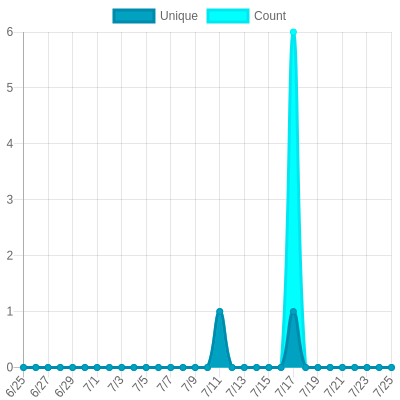
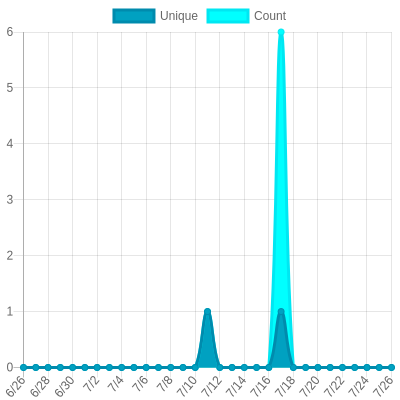
Update views

diff --git a/README.md b/README.md
@@ -26,7 +26,7 @@ The project created and maintained by [gayanvoice](https://github.com/gayanvoice
 			</a>
 		</td>
 		<td>
-			2023/7/23 12:20 AM UTC
+			2023/7/24 12:19 AM UTC
 		</td>
 		<td>
 			36
@@ -35,57 +35,9 @@ The project created and maintained by [gayanvoice](https://github.com/gayanvoice
 			<img alt="Response time graph" src="https://github.com/jimbrig/profile-views/raw/master/graph/285926530/small/week.png" height="20"> 740
 		</td>
 	</tr>
-	<tr>
-		<td>
-			<a href="https://github.com/jimbrig/profile-views/tree/master/readme/235878383/week.md">
-				jimstools
-			</a>
-		</td>
-		<td>
-			2023/7/23 12:21 AM UTC
-		</td>
-		<td>
-			12
-		</td>
-		<td>
-			<img alt="Response time graph" src="https://github.com/jimbrig/profile-views/raw/master/graph/235878383/small/week.png" height="20"> 33
-		</td>
-	</tr>
-	<tr>
-		<td>
-			<a href="https://github.com/jimbrig/profile-views/tree/master/readme/427463930/week.md">
-				KaaS
-			</a>
-		</td>
-		<td>
-			2023/7/23 12:00 AM UTC
-		</td>
-		<td>
-			401
-		</td>
-		<td>
-			<img alt="Response time graph" src="https://github.com/jimbrig/profile-views/raw/master/graph/427463930/small/week.png" height="20"> 1835
-		</td>
-	</tr>
-	<tr>
-		<td>
-			<a href="https://github.com/jimbrig/profile-views/tree/master/readme/331031695/week.md">
-				jimsdots
-			</a>
-		</td>
-		<td>
-			2023/7/23 12:21 AM UTC
-		</td>
-		<td>
-			47
-		</td>
-		<td>
-			<img alt="Response time graph" src="https://github.com/jimbrig/profile-views/raw/master/graph/331031695/small/week.png" height="20"> 355
-		</td>
-	</tr>
 </table>
 
-<small><i>Last updated on 2023/7/25 6:06 PM UTC</i></small>
+<small><i>Last updated on 2023/7/26 12:19 AM UTC</i></small>
 
 ## ✂Copy and 📋 Paste
 ### Total Views Badge

diff --git a/readme/285926530/month.md b/readme/285926530/month.md
@@ -21,6 +21,17 @@
 	</tr>
 	<tr>
 		<td>
+			<code>2023/7/26</code>
+		</td>
+		<td>
+			<code>0</code>
+		</td>
+		<td>
+			<code>0</code>
+		</td>
+	</tr>
+	<tr>
+		<td>
 			<code>2023/7/25</code>
 		</td>
 		<td>
@@ -349,21 +360,10 @@
 			<code>0</code>
 		</td>
 	</tr>
-	<tr>
-		<td>
-			<code>2023/6/25</code>
-		</td>
-		<td>
-			<code>0</code>
-		</td>
-		<td>
-			<code>0</code>
-		</td>
-	</tr>
 </table>
 
 </details>
-<small><i>Last updated on 2023/7/25 6:05 PM UTC</i></small>
+<small><i>Last updated on 2023/7/26 12:18 AM UTC</i></small>
 
 ## ✂Copy and 📋 Paste
 ### SVG Badge

diff --git a/readme/285926530/week.md b/readme/285926530/week.md
@@ -21,6 +21,17 @@
 	</tr>
 	<tr>
 		<td>
+			<code>2023/7/26</code>
+		</td>
+		<td>
+			<code>0</code>
+		</td>
+		<td>
+			<code>0</code>
+		</td>
+	</tr>
+	<tr>
+		<td>
 			<code>2023/7/25</code>
 		</td>
 		<td>
@@ -96,21 +107,10 @@
 			<code>0</code>
 		</td>
 	</tr>
-	<tr>
-		<td>
-			<code>2023/7/18</code>
-		</td>
-		<td>
-			<code>0</code>
-		</td>
-		<td>
-			<code>0</code>
-		</td>
-	</tr>
 </table>
 
 </details>
-<small><i>Last updated on 2023/7/25 6:05 PM UTC</i></small>
+<small><i>Last updated on 2023/7/26 12:18 AM UTC</i></small>
 
 ## ✂Copy and 📋 Paste
 ### SVG Badge

diff --git a/readme/285926530/year.md b/readme/285926530/year.md
@@ -165,7 +165,7 @@
 </table>
 
 </details>
-<small><i>Last updated on 2023/7/25 6:05 PM UTC</i></small>
+<small><i>Last updated on 2023/7/26 12:18 AM UTC</i></small>
 
 ## ✂Copy and 📋 Paste
 ### SVG Badge
